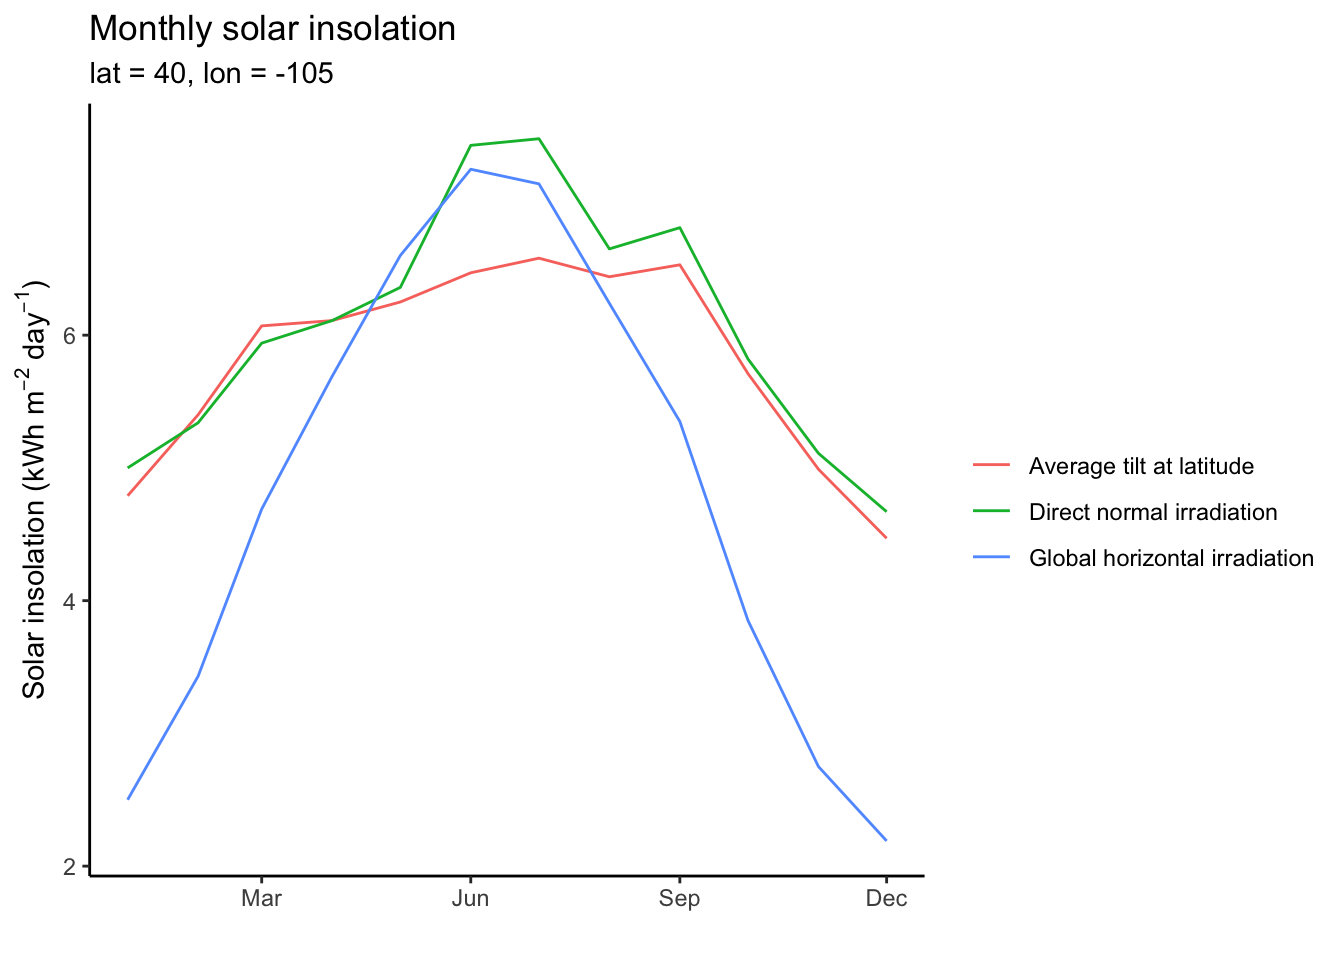
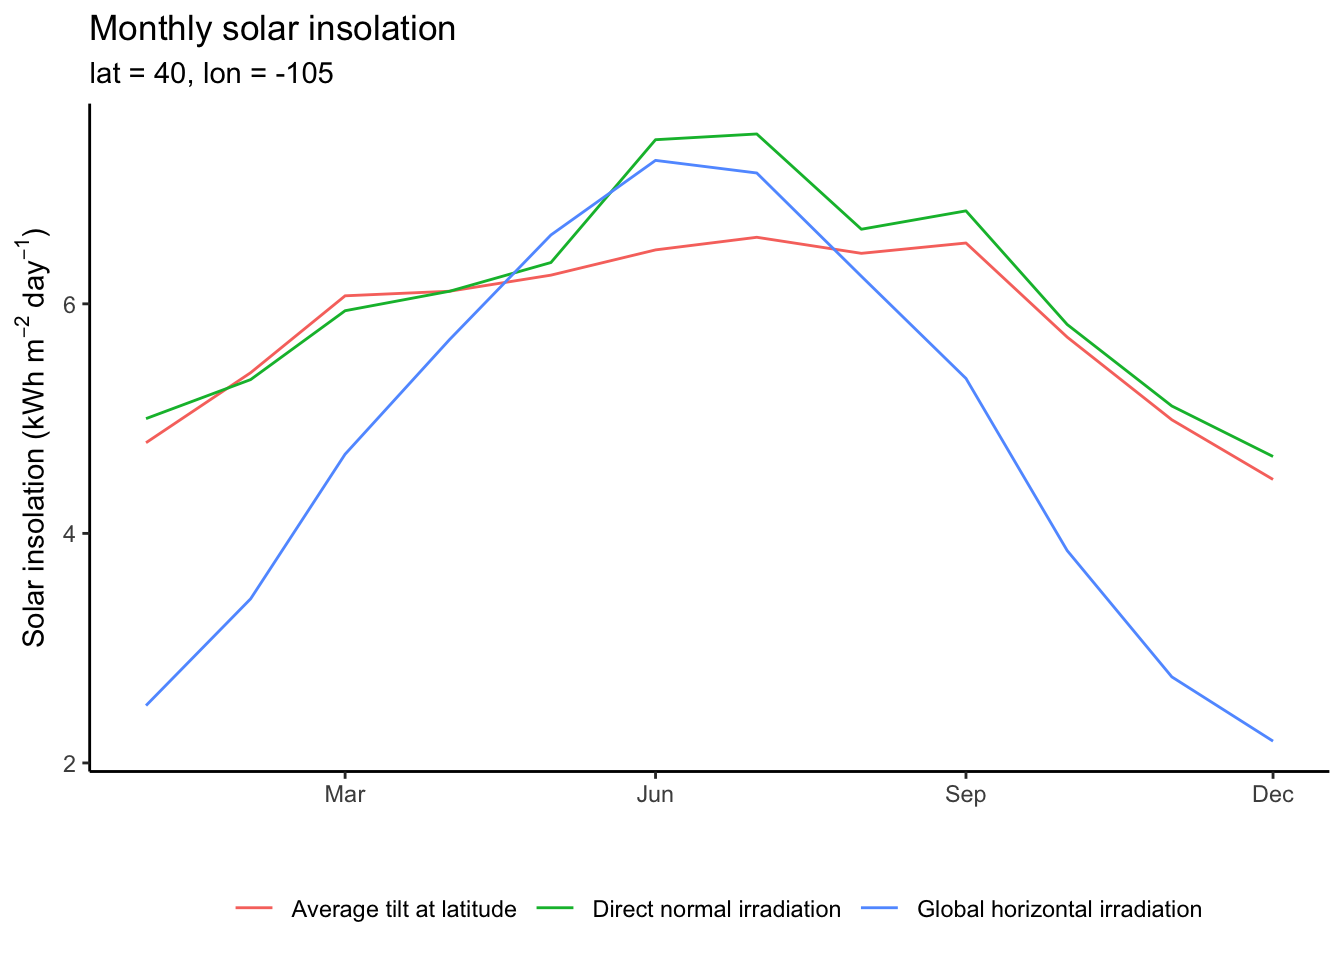
Tweaked api post plot

diff --git a/public/2020/08/making-an-api-call-with-r.en-us/index.html b/public/2020/08/making-an-api-call-with-r.en-us/index.html
@@ -457,7 +457,8 @@ output_df %&gt;%
        title = &quot;Monthly solar insolation&quot;,
        subtitle = paste0(&quot;lat = &quot;, lat, &quot;, lon = &quot;, lon)) +
   geom_line() +
-  theme_classic()</code></pre>
+  theme_classic() +
+  theme(legend.position = &quot;bottom&quot;)</code></pre>
 <p><img src="/post/2020-08-09-making-an-api-call-with-r.en-us_files/figure-html/unnamed-chunk-7-1.png" width="672" /></p>
 <p>Thanks for reading!</p>
 

diff --git a/content/post/2020-08-09-making-an-api-call-with-r.en-us.html b/content/post/2020-08-09-making-an-api-call-with-r.en-us.html
@@ -140,6 +140,7 @@ output_df %&gt;%
        title = &quot;Monthly solar insolation&quot;,
        subtitle = paste0(&quot;lat = &quot;, lat, &quot;, lon = &quot;, lon)) +
   geom_line() +
-  theme_classic()</code></pre>
+  theme_classic() +
+  theme(legend.position = &quot;bottom&quot;)</code></pre>
 <p><img src="/post/2020-08-09-making-an-api-call-with-r.en-us_files/figure-html/unnamed-chunk-7-1.png" width="672" /></p>
 <p>Thanks for reading!</p>
